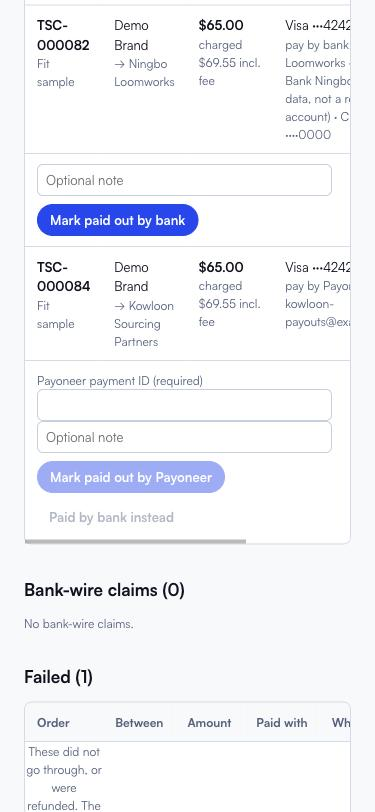
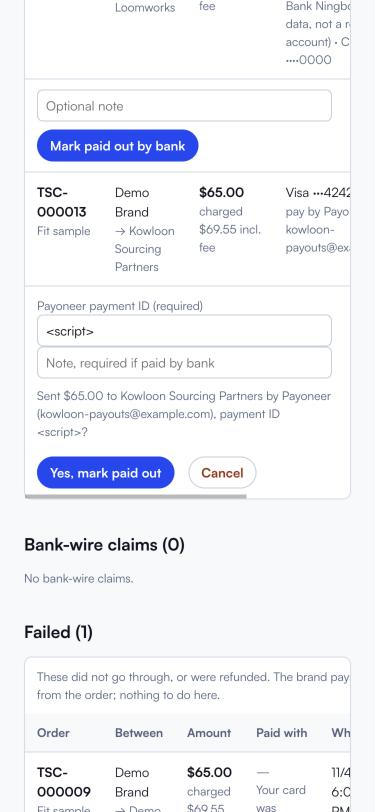
Payoneer fixes from the Chrome test
- Settings: a member has no payout row menu; Edit opens the row clicked
- Board: the confirmation wraps, a refusal is said in its row, a stale tab's
  bank mark says it was already paid, the note says when it is required
- Board: section captions sit above the table (squeezed since Phase 3)
- Payments: one current notice; a bad email is red, once the field is left

diff --git a/src/app/admin/AdminPayments.jsx b/src/app/admin/AdminPayments.jsx
@@ -62,13 +62,15 @@ const ROW_TIME = {
 const paidByStripe = (row) => row.factory_stripe_ready && row.stripe_payment_intent_id;
 const paidByPayoneer = (row) => !paidByStripe(row) && row.payout_method === "payoneer";
 
-function Actions({ row, section, note, payoneerId, onDecide, busy }) {
+function Actions({ row, section, note, payoneerId, onDecide, busy, refusal }) {
+  const said = refusal ? <span className="admin-error admin-row-message" role="alert" data-testid="payment-refusal">{refusal.message}</span> : null;
   // Marking a payout paid by bank cannot be undone from here and tells the
   // factory it was paid, so it asks once, saying the amount and where to.
   const [confirming, setConfirming] = useState(null);
   if (section === "wire") {
     return (
       <>
+        {said}
         <button type="button" className="admin-approve" disabled={busy}
                 data-testid="confirm-payment"
                 onClick={() => onDecide(row, "confirm", note)}>
@@ -88,7 +90,7 @@ function Actions({ row, section, note, payoneerId, onDecide, busy }) {
       if (confirming) {
         return (
           <>
-            <span className="admin-sub" role="alert">
+            <span className="admin-sub admin-row-message" role="alert">
               {confirming === "payoneer"
                 ? `Sent ${formatMoney(row.amount_cents, row.currency)} to ${row.factory_name} by Payoneer (${row.payoneer_email}), payment ID ${id}?`
                 : `Sent ${formatMoney(row.amount_cents, row.currency)} to ${row.factory_name} by bank, not to their Payoneer account?`}
@@ -107,6 +109,7 @@ function Actions({ row, section, note, payoneerId, onDecide, busy }) {
       }
       return (
         <>
+          {said}
           <button type="button" className="admin-approve" disabled={busy || !id}
                   data-testid="release-payoneer"
                   title={id ? "Pay from TSC's Payoneer business account first, then mark it here" : "Enter the payment ID from Payoneer"}
@@ -123,14 +126,17 @@ function Actions({ row, section, note, payoneerId, onDecide, busy }) {
       );
     }
     return paidByStripe(row) ? (
+      <>
+      {said}
       <button type="button" className="admin-approve" disabled={busy}
               data-testid="retry-payout"
               onClick={() => onDecide(row, "retry", note)}>
         Retry payout
       </button>
+      </>
     ) : confirming ? (
       <>
-        <span className="admin-sub" role="alert">
+        <span className="admin-sub admin-row-message" role="alert">
           {`Sent ${formatMoney(row.amount_cents, row.currency)} to ${row.factory_name} by bank?`}
           {row.payout_summary === "no bank details on file" ? " No bank details are on file." : null}
         </span>
@@ -145,12 +151,15 @@ function Actions({ row, section, note, payoneerId, onDecide, busy }) {
         </button>
       </>
     ) : (
+      <>
+      {said}
       <button type="button" className="admin-approve" disabled={busy}
               data-testid="release-payment"
               title="Pay the factory by bank transfer first, then mark it here"
               onClick={() => setConfirming("bank")}>
         Mark paid out by bank
       </button>
+      </>
     );
   }
   return null;
@@ -175,7 +184,7 @@ function useNarrow() {
 
 const ACTS = new Set(["wire", "payout"]);
 
-function Row({ row, section, onDecide, busy, narrow }) {
+function Row({ row, section, onDecide, busy, narrow, refusal }) {
   const [note, setNote] = useState("");
   const [payoneerId, setPayoneerId] = useState("");
   const acts = ACTS.has(section);
@@ -188,11 +197,11 @@ function Row({ row, section, onDecide, busy, narrow }) {
           <input type="text" data-testid="payoneer-payment-id" value={payoneerId} onChange={(event) => setPayoneerId(event.target.value)} />
         </label>
       ) : null}
-      <input type="text" aria-label="Note" placeholder={section === "wire" ? "Note, required to reject" : "Optional note"}
+      <input type="text" aria-label="Note" placeholder={section === "wire" ? "Note, required to reject" : section === "payout" && paidByPayoneer(row) ? "Note, required if paid by bank" : "Optional note"}
              value={note} onChange={(event) => setNote(event.target.value)} />
     </>
   ) : null;
-  const buttons = <Actions row={row} section={section} note={note} payoneerId={payoneerId} onDecide={onDecide} busy={busy} />;
+  const buttons = <Actions row={row} section={section} note={note} payoneerId={payoneerId} onDecide={onDecide} busy={busy} refusal={refusal} />;
 
   return (
     <>
@@ -263,16 +272,19 @@ function Row({ row, section, onDecide, busy, narrow }) {
   );
 }
 
-function Section({ id, title, rows, empty, caption, onDecide, busyId, narrow }) {
+function Section({ id, title, rows, empty, caption, onDecide, busyId, narrow, refusal }) {
   return (
     <section data-section={id}>
       <h2>{title} ({rows.length})</h2>
       {rows.length === 0 ? (
         <p className="admin-sub">{empty}</p>
       ) : (
+        <>
+        {/* Above the table, not its <caption>: .admin-sub is display: block,
+            which squeezed a caption into the first column. */}
+        <p className="admin-sub admin-section-caption">{caption}</p>
         <div className="admin-scroll">
           <table>
-            <caption className="admin-sub">{caption}</caption>
             <thead>
               <tr>
                 <th>Order</th>
@@ -291,11 +303,12 @@ function Section({ id, title, rows, empty, caption, onDecide, busyId, narrow }) 
             <tbody>
               {rows.map((row) => (
                 <Row key={row.payment_id} row={row} section={id} onDecide={onDecide} busy={busyId === row.payment_id}
-                     narrow={narrow} />
+                     narrow={narrow} refusal={refusal?.paymentId === row.payment_id ? refusal.failure : null} />
               ))}
             </tbody>
           </table>
         </div>
+        </>
       )}
     </section>
   );
@@ -323,6 +336,9 @@ export default function AdminPayments() {
   const [busyId, setBusyId] = useState(null);
   const [error, setError] = useState(null);
   const [notice, setNotice] = useState(null);
+  // A refused action is said in its row, beside the buttons: the top of the
+  // page may be a screen away from where staff are looking.
+  const [refusal, setRefusal] = useState(null);
   const narrow = useNarrow();
 
   const load = useCallback(async () => {
@@ -338,7 +354,7 @@ export default function AdminPayments() {
 
   async function decide(row, decision, note, payoneerId) {
     setBusyId(row.payment_id);
-    setError(null);
+    setRefusal(null);
     setNotice(null);
     try {
       if (decision === "confirm") await confirmPaymentReceived(row.payment_id, { note });
@@ -353,7 +369,7 @@ export default function AdminPayments() {
       } else await releasePayment(row.payment_id, note);
       await load();
     } catch (failure) {
-      setError(failure);
+      setRefusal({ paymentId: row.payment_id, failure });
     } finally {
       setBusyId(null);
     }
@@ -373,7 +389,7 @@ export default function AdminPayments() {
   }
 
   const sections = boardSections(rows);
-  const shared = { onDecide: decide, busyId, narrow };
+  const shared = { onDecide: decide, busyId, narrow, refusal };
 
   return (
     <div className="admin">

diff --git a/src/app/order/StripePayoutCard.jsx b/src/app/order/StripePayoutCard.jsx
@@ -224,6 +224,8 @@ export default function StripePayoutCard({
   const [removing, setRemoving] = useState(null);
   const [handover, setHandover] = useState(null);
   const [methodNotice, setMethodNotice] = useState(null);
+  // Said once the person leaves the field, not at the first letter they type.
+  const [payoneerEmailLeft, setPayoneerEmailLeft] = useState(false);
   const [removeError, setRemoveError] = useState(null);
   // TSC's own add and remove (an account TSC manages): which account a
   // Replace removes once the new one is added, which account becomes the
@@ -486,7 +488,7 @@ export default function StripePayoutCard({
       <div className="payout-form-grid">
         <label>
           <span>Payoneer account email (required)</span>
-          <input type="email" autoComplete="off" data-field="payout_payoneer_email" value={manualForm?.payoneer_email ?? ""} required onChange={onManualFieldChange("payoneer_email")} placeholder="The email you sign in to Payoneer with" />
+          <input type="email" autoComplete="off" data-field="payout_payoneer_email" value={manualForm?.payoneer_email ?? ""} required onBlur={() => setPayoneerEmailLeft(true)} onChange={onManualFieldChange("payoneer_email")} placeholder="The email you sign in to Payoneer with" />
         </label>
         <label>
           <span>Re-enter the email (required)</span>
@@ -494,7 +496,7 @@ export default function StripePayoutCard({
         </label>
       </div>
       {payoneerMismatch ? <p className="live-stripe-error" role="alert">The two email addresses don't match.</p> : null}
-      {manualForm?.payoneer_email && !validPayoneerEmail(manualForm.payoneer_email) ? <p className="payout-security-copy">Enter a valid email address for your Payoneer account.</p> : null}
+      {payoneerEmailLeft && manualForm?.payoneer_email && !validPayoneerEmail(manualForm.payoneer_email) ? <p className="live-stripe-error" role="alert">Enter a valid email address for your Payoneer account.</p> : null}
       <p className="payout-security-copy">TSC pays your released earnings to this Payoneer account by hand, from TSC's Payoneer business account. TSC is not connected to your Payoneer account and never sees its sign-in or balance.</p>
     </div>
   );
@@ -621,8 +623,17 @@ export default function StripePayoutCard({
   }
 
   // Add (blank) or Edit (that account): the parent holds the form.
+  // One notice at a time, and only about what just happened.
+  const openManage = () => {
+    setMethodNotice(null);
+    setRemoveError(null);
+    setModal("manage");
+  };
+
   const openManual = (row) => {
     setManualError(null);
+    setMethodNotice(null);
+    setPayoneerEmailLeft(false);
     onStartManual?.(row);
     setModal("setup");
   };
@@ -735,14 +746,14 @@ export default function StripePayoutCard({
               setWithdrawal({ amount: available, currency: currency.toLowerCase(), requestId: crypto.randomUUID() });
               setModal("withdraw");
             }}>Withdraw to bank</button>
-            <button className="secondary-btn compact-btn" type="button" disabled={busy} onClick={() => setModal("manage")}>Manage payout method</button>
+            <button className="secondary-btn compact-btn" type="button" disabled={busy} onClick={openManage}>Manage payout method</button>
             </>
           ) : account ? (
             <button className="primary-btn compact-btn" type="button" disabled={busy} onClick={() => setModal("onboarding")}>Finish setup</button>
           ) : manualAccount && !manualComplete(manualAccount) ? (
             <button className="primary-btn compact-btn" type="button" data-testid="add-payout-method" onClick={() => openManual(manualAccount)}>Complete bank details</button>
           ) : (
-            <button className="primary-btn compact-btn" type="button" data-testid="add-payout-method" onClick={() => (manualAccount ? setModal("manage") : openManual(null))}>{manualAccount ? "Manage payout method" : "Add payout method"}</button>
+            <button className="primary-btn compact-btn" type="button" data-testid="add-payout-method" onClick={() => (manualAccount ? openManage() : openManual(null))}>{manualAccount ? "Manage payout method" : "Add payout method"}</button>
           )
           : <p className="payout-owner-only">Only an owner of your company can set up or change payouts.</p>}
         </div>

diff --git a/src/app/settings/LiveSettings.jsx b/src/app/settings/LiveSettings.jsx
@@ -411,7 +411,7 @@ export default function LiveSettings({ org, isFactory, onSignOut }) {
         onAddBillingMethod={canSettings ? addBillingMethod : undefined}
         onRemoveBillingMethod={canSettings ? removeCard : undefined}
         billingMethodNote={canSettings ? "" : `Only someone with Settings access at ${org.name || "your company"} can add or remove payment methods.`}
-        onEditPaymentMethod={isFactory && isOwner ? () => openPayoutFlow("edit") : undefined}
+        onEditPaymentMethod={isFactory && isOwner ? (method) => openPayoutFlow("edit", method?.id) : undefined}
         onDeletePaymentMethod={isFactory && isOwner ? (method) => openPayoutFlow("remove", method?.id) : undefined}
         team={team}
         {...live}

diff --git a/src/app/order/use-manual-payouts.js b/src/app/order/use-manual-payouts.js
@@ -120,6 +120,7 @@ export function useManualPayouts(orgId) {
   }
 
   async function remove(account, promote = null) {
+    setSaved(false);
     setBusy(true);
     try {
       // Another account becomes the one TSC pays in the same call (20261030000100).
@@ -134,6 +135,7 @@ export function useManualPayouts(orgId) {
   }
 
   async function makePrimary(account) {
+    setSaved(false);
     setBusy(true);
     try {
       unwrap(await supabase.rpc("set_primary_payout_account", { target: account.id }), "choose the account TSC pays");

diff --git a/src/app/admin/admin.css b/src/app/admin/admin.css
@@ -29,6 +29,7 @@
   border-bottom: 1px solid var(--border);
   vertical-align: top;
 }
+.admin-section-caption { margin: 0 0 8px; }
 .admin thead th {
   font-size: 12px;
   font-weight: 700;
@@ -61,6 +62,8 @@
 }
 
 .admin-actions { white-space: nowrap; }
+/* A sentence among the buttons: it wraps, so an email or ID is never cut off. */
+.admin-actions .admin-row-message { display: block; min-width: 220px; margin-bottom: 8px; white-space: normal; overflow-wrap: anywhere; }
 .admin-actions button {
   height: 32px;
   padding: 0 12px;

diff --git a/src/prototype/main.jsx b/src/prototype/main.jsx
@@ -2816,7 +2816,8 @@ export function SettingsScreen({
                             </div>
                           ) : null}
                         </div>
-                      ) : (
+                      /* Live, someone who may change nothing (a member) has no menu. */
+                      ) : livePaymentMethods && !onEditPaymentMethod && !onDeletePaymentMethod ? null : (
                       <div className="settings-payment-menu">
                         <button
                           className="settings-menu-btn"
